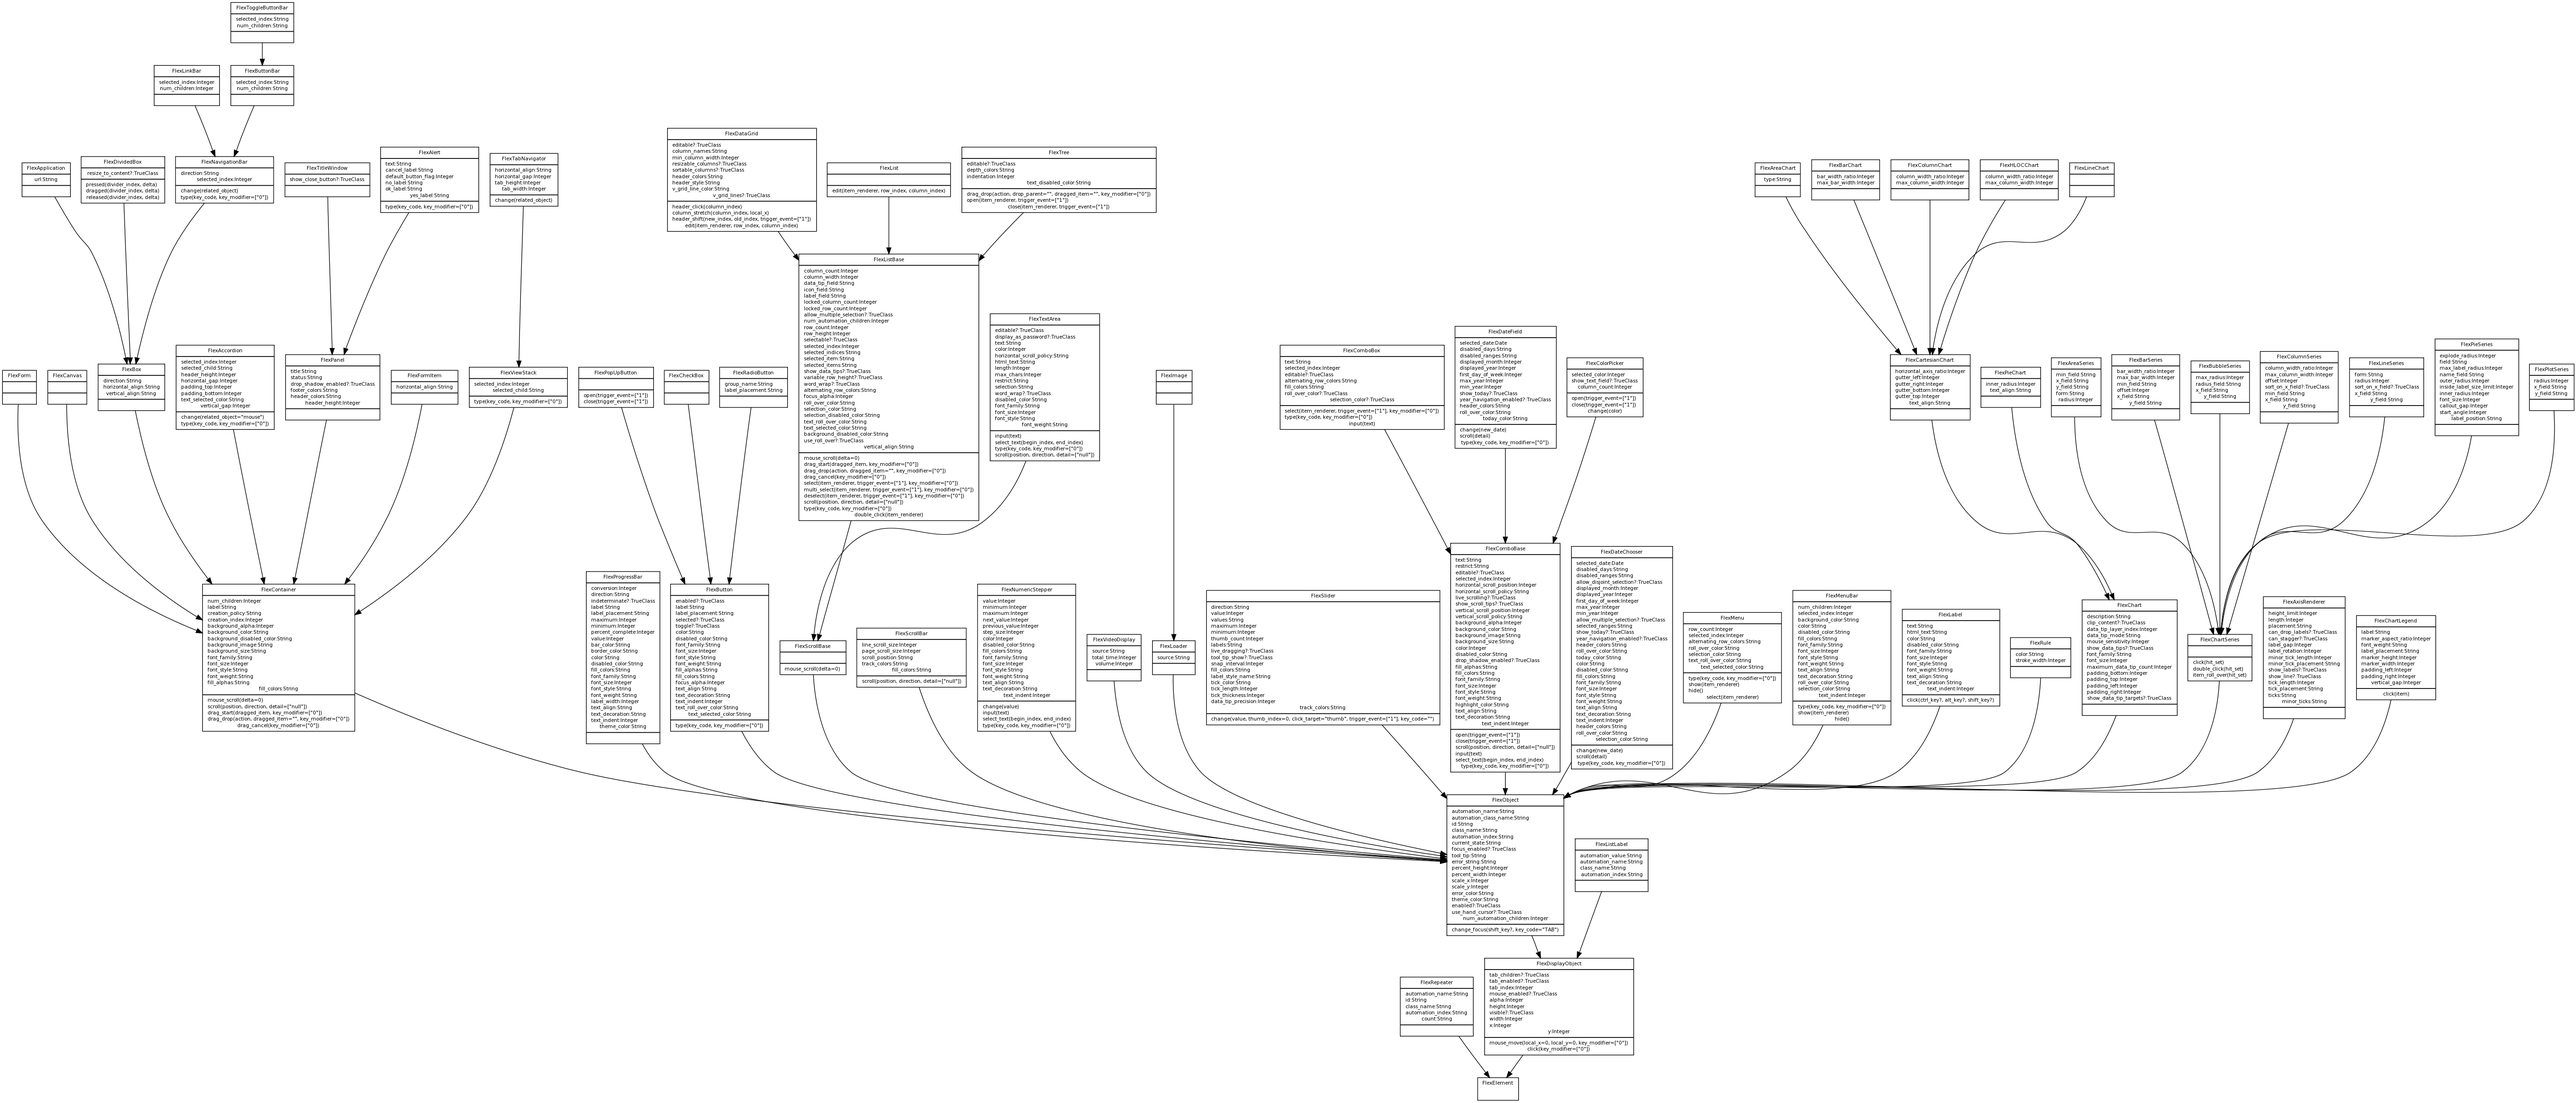
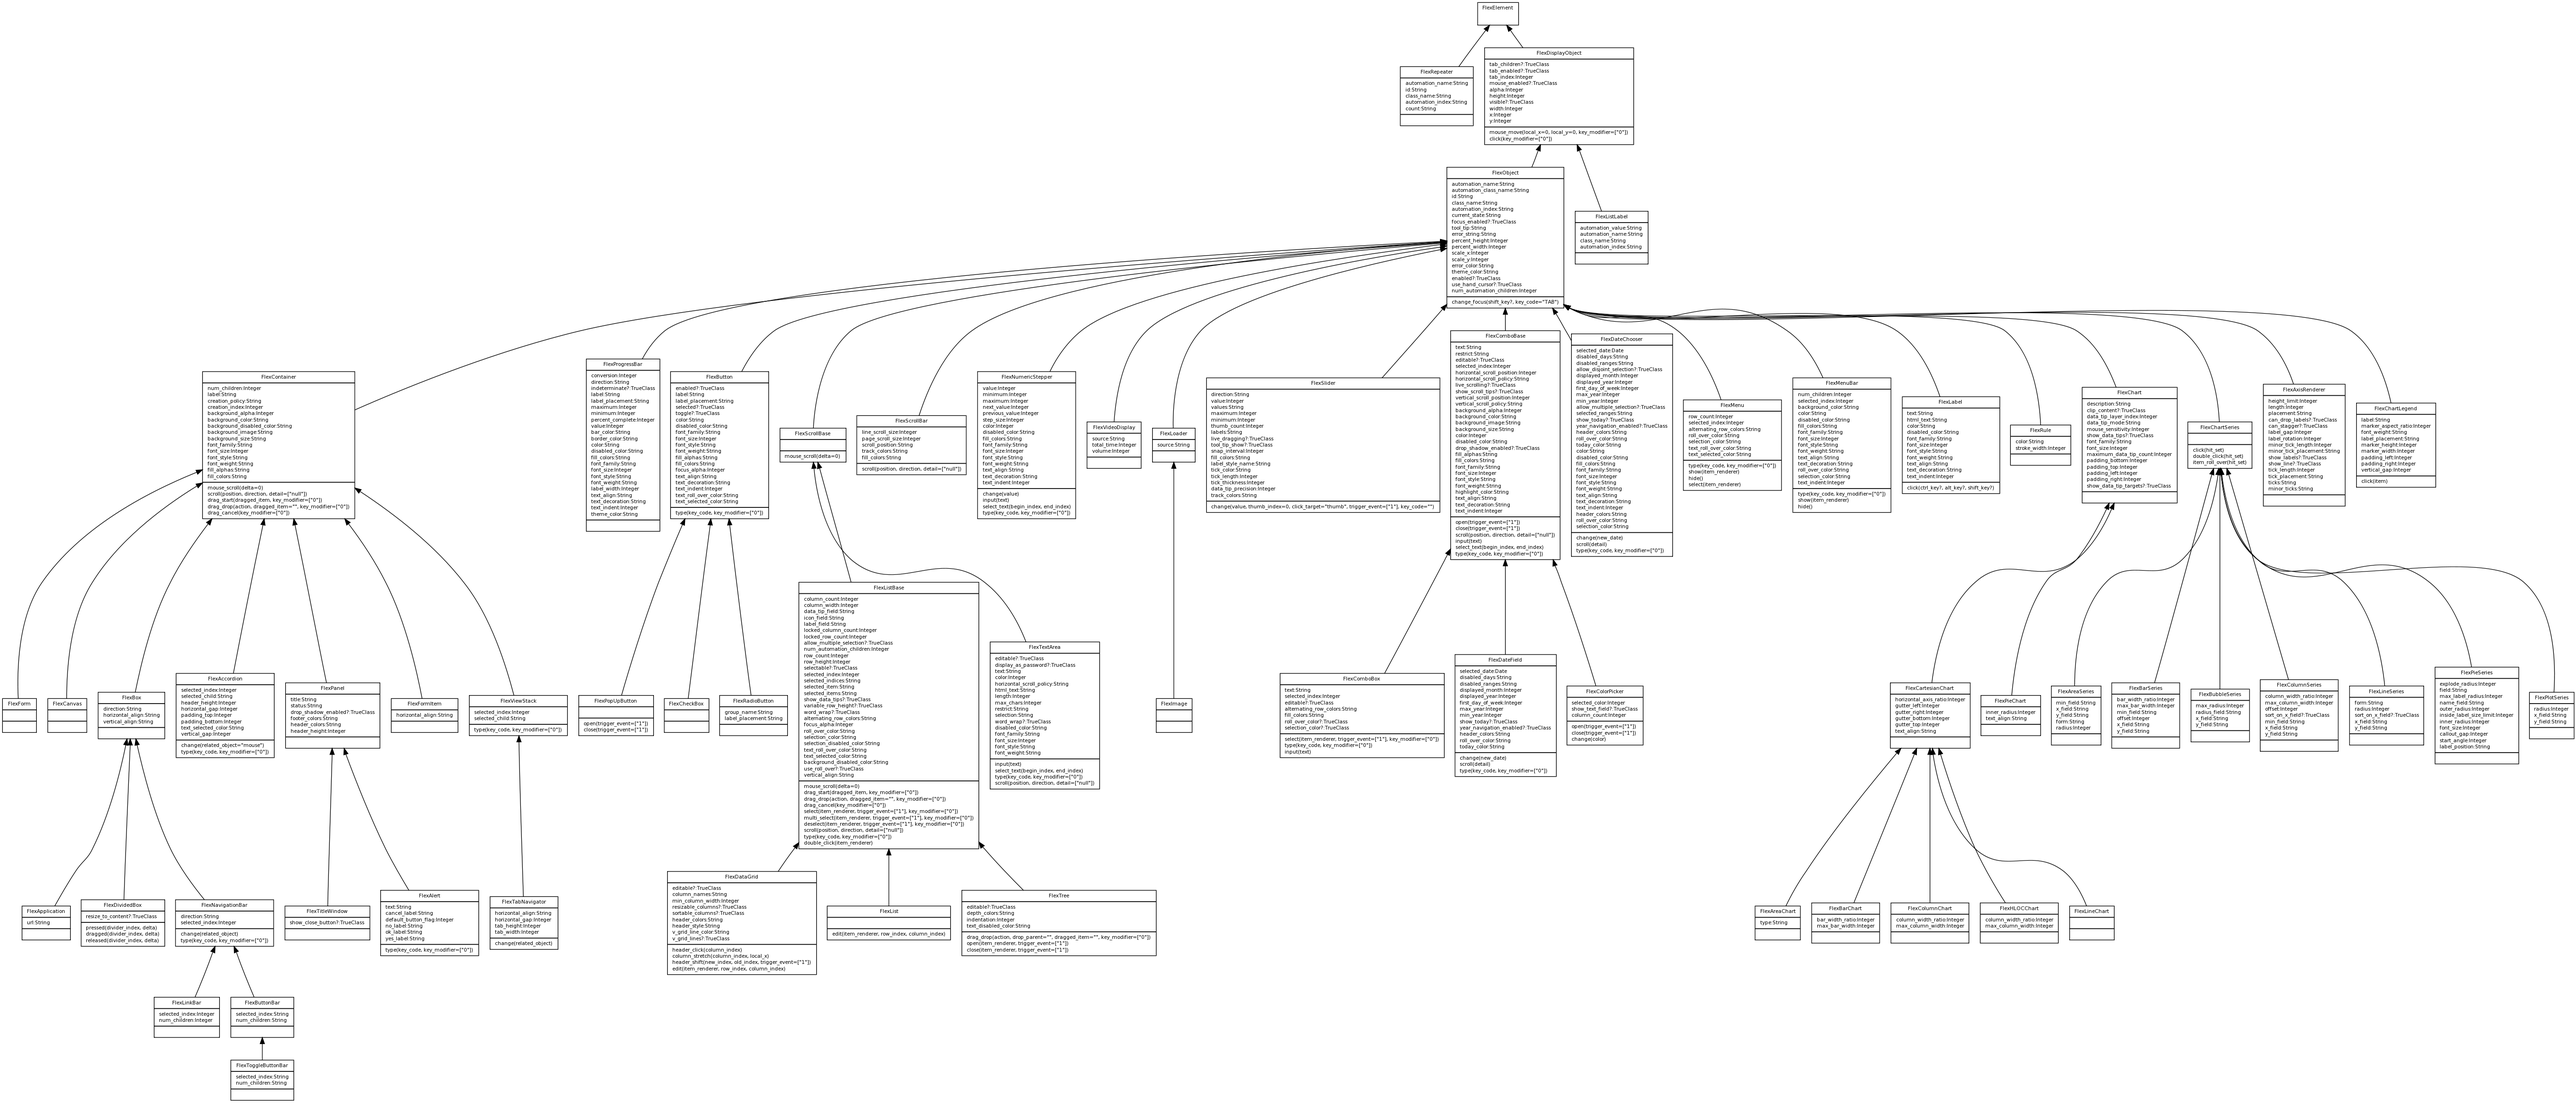
Improved class diagram layout

diff --git a/gem/lib/funfx/meta/parser.rb b/gem/lib/funfx/meta/parser.rb
@@ -52,11 +52,13 @@ module FunFX
       end
       
       def dot_property_list
-        properties.map{|p| p.to_dot}.join('\l')
+        l = properties.map{|p| p.to_dot}.join('\l')
+        l == "" ? l : "#{l}\\l"
       end
 
       def dot_event_list
-        events.map{|e| e.to_dot}.join('\l')
+        l = events.map{|e| e.to_dot}.join('\l')
+        l == "" ? l : "#{l}\\l"
       end
     end
     
